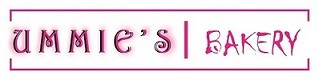
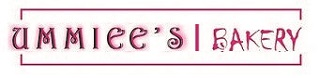
ummie to ummiee

Changed region(s): [[0.0282, 0.2308, 0.9592, 0.7179], [0.0282, 0.6667, 0.9875, 0.8462], [0.0282, 0.1026, 0.9875, 0.2821]]

diff --git a/index.html b/index.html
@@ -26,7 +26,9 @@
     <!-- Custom CSS -->
     <link rel="stylesheet" href="assets/css/index.css">
 
-    <title>UMMIE</title>
+    <script src="https://kit.fontawesome.com/6e7eb47cc9.js" crossorigin="anonymous"></script>
+
+    <title>UMMIEE</title>
 </head>
 
 <body>
@@ -53,13 +55,21 @@
             </ul> 
         </div>
     </nav>
+    <div class="call">
+        <a href="Tel: +234 809 6932 542" class="cal">
+          <i class="fa-solid fa-phone"></i>
+        </a>
+        <a href="https://wa.me/+234 809 6932 542" class="cal">
+          <i class="fa-brands fa-whatsapp"></i>
+        </a>
+        </div>
 
     <!-- Header start -->
     <header class="header">
         <div class="container">
             <div class="header-content">
                 <h3>Hi, I'm </h3>
-                <h1>UMMIE</h1>
+                <h1>UMMIEE</h1>
                 <h3 class="third">A multinational elite baker, nice to meet you</h3>
 
                 <a href="#footer" class="header-button" type="button">
@@ -110,7 +120,7 @@
                         <img src="assets/images/UMMIESLOGO.jpg" alt="about-img">
                     </div>
                     <div class="col-lg-6 col-md-6 col-sm-12 about-text" data-aos="fade-up-left">
-                        <p>Lorem ipsum dolor sit amet consectetur adipisicing elit. Accusantium voluptate optio totam magnam consequatur quisquam iusto laboriosam necessitatibus corporis dignissimos, at aspernatur quam quas! Molestias assumenda accusamus veniam ex accusantium?</p>
+                       <p>Ummiee's Bakery is a bakery founded by Ummiee. We have been providing satisfactory and entacing Products for our customers since 2016. We offer all kinds of bakery services and products both home made and commercial.</p>
                     </div>
                 </div>
             </div>
@@ -264,7 +274,7 @@
 
                     <!-- Content -->
                     <div >
-                        <h2 class="font-weight-bold">Ummie's Bakery</h2>
+                        <h2 class="font-weight-bold">Ummiee's Bakery</h2>
 
                         <h3>Contact Us</h3>
                         <p>Phone: +234 803 0822 810</p>
